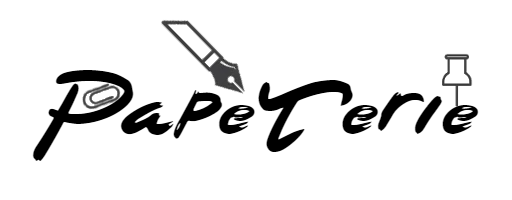
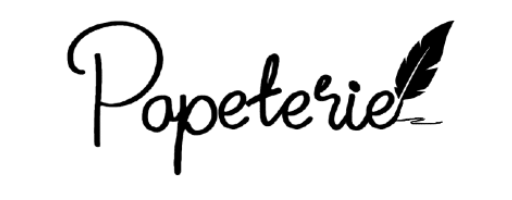
[2021.12.27][윤정민]  - 메인페이지 헤더 이미지 작업완료  - 세세한 부분 디자인 작업중

Changed region(s): [[0.0625, 0.09, 0.9375, 0.87]]

diff --git a/papeterie/src/main/webapp/resources/css/default.css b/papeterie/src/main/webapp/resources/css/default.css
@@ -32,6 +32,7 @@
 	
 	.top-head-menu{
 	position:absolute;
+	width:500px;
 	left:68%;
 	}
 	
@@ -48,6 +49,10 @@
 	font-size:10px;
 	font-weight:bold;
 	text-decoration:none;
+	color:gray;
+	}
+	
+	.top_head_first_menu:hover{
 	color:gray;
 	}
 	
@@ -88,14 +93,15 @@
 	
 	.second-head{
 	background:white;
+	border-bottom:1px solid #e6e6e6;
 	}
 	
 	.second-menu{
-	text-align:center;
+	width:1000px;
 	height:55px;
+	margin:auto;
 	padding-top:5px;
-	margin-bottom:0;
-	border-bottom:1px solid #e6e6e6;
+	padding-left:150px;
 	}
 	
 	.second-menu li{
@@ -147,12 +153,13 @@
 
 	#bottom-img{
 	margin-top:20px;
-	margin-bottom:20px;
+	margin-bottom:120px;
+	margin-right:20px;
 	}
 
 	#bottom-content{
-	width:700px;
-	height:200px;
+	width:1000px;
+	height:auto;
 	margin:auto;
 	}
 	
@@ -171,5 +178,15 @@
 	color:#4d4d4d;
 	font-size:14px;
 	margin-bottom:10px;
+	}
+	
+	#bottom-right{
+	display:inline-block;
+	margin-top:80px;
+	}
+	
+	#bottom-left{
+	display:inline-block;
+	padding-bottom:50px;
 	}
 	

diff --git a/papeterie/src/main/webapp/resources/css/mypage.css b/papeterie/src/main/webapp/resources/css/mypage.css
@@ -33,11 +33,14 @@
 .orderNO {
 	padding: 5px;
 	text-align: left;
+	font-size:14px;
 }
 
 .orderDATE {
 	padding: 5px;
 	text-align: right;
+	font-size:14px;
+	margin-right:20px;
 }
 
 .item_desc {
@@ -74,7 +77,6 @@
 
 #dd_left {
 	display: block;
-	border: 1px solid black;
 	padding: 5px;
 	height: 80px;
 	width: 400px;
@@ -84,10 +86,18 @@
 
 #dd_right {
 	display: block;
-	border: 1px solid black;
 	padding: 5px;
 	height: 80px;
 	width: 300px;
 	float: right;
 	margin: 10px 20px 10px 0px;
+}
+
+#orderDetail{
+	color:gray;
+}
+
+.orderContent{
+	font-weight:bold;
+	font-size:16px;
 }

diff --git a/papeterie/src/main/webapp/resources/css/style.css b/papeterie/src/main/webapp/resources/css/style.css
@@ -13,3 +13,13 @@ body {
 	position: relative; 
 	padding-top: 60px;
 }
+
+#section2 {
+	display: flex;
+	justify-content: center;
+	width: 900px;
+	height: auto;
+	margin: auto;
+	position: relative; 
+	padding-top: 150px;
+}

diff --git a/papeterie/src/main/webapp/resources/css/admin.css b/papeterie/src/main/webapp/resources/css/admin.css
@@ -24,8 +24,9 @@ background:white;
 display:inline-block;
 background:#f2f2f2;
 width:1603px;
-height:930px;
+height:auto;
 position:absolute;
+padding-bottom:175px;
 }
 
 #content2{

diff --git a/papeterie/src/main/webapp/resources/css/wishlist.css b/papeterie/src/main/webapp/resources/css/wishlist.css
@@ -16,6 +16,7 @@
 #content th{
 	background:#f2f2f2;
 	text-align:center;
+	font-size:14px;
 }
 
 #content td{
